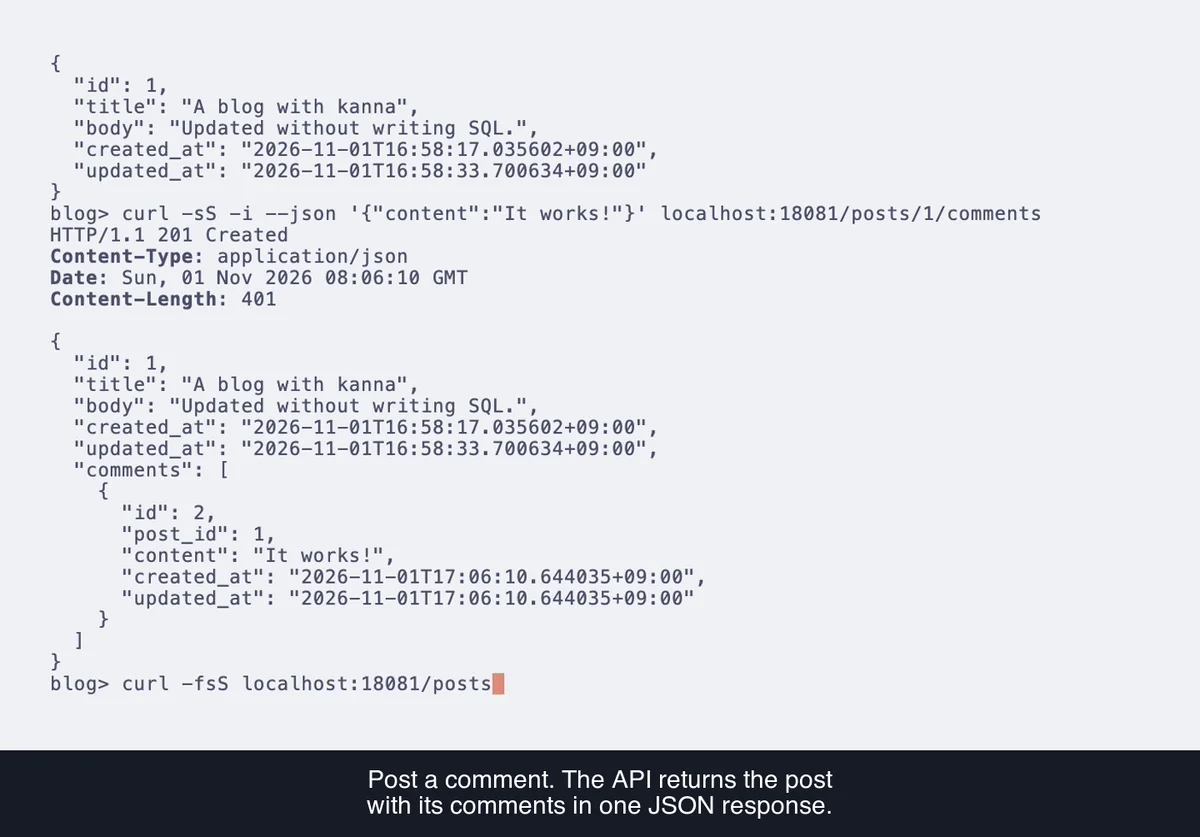
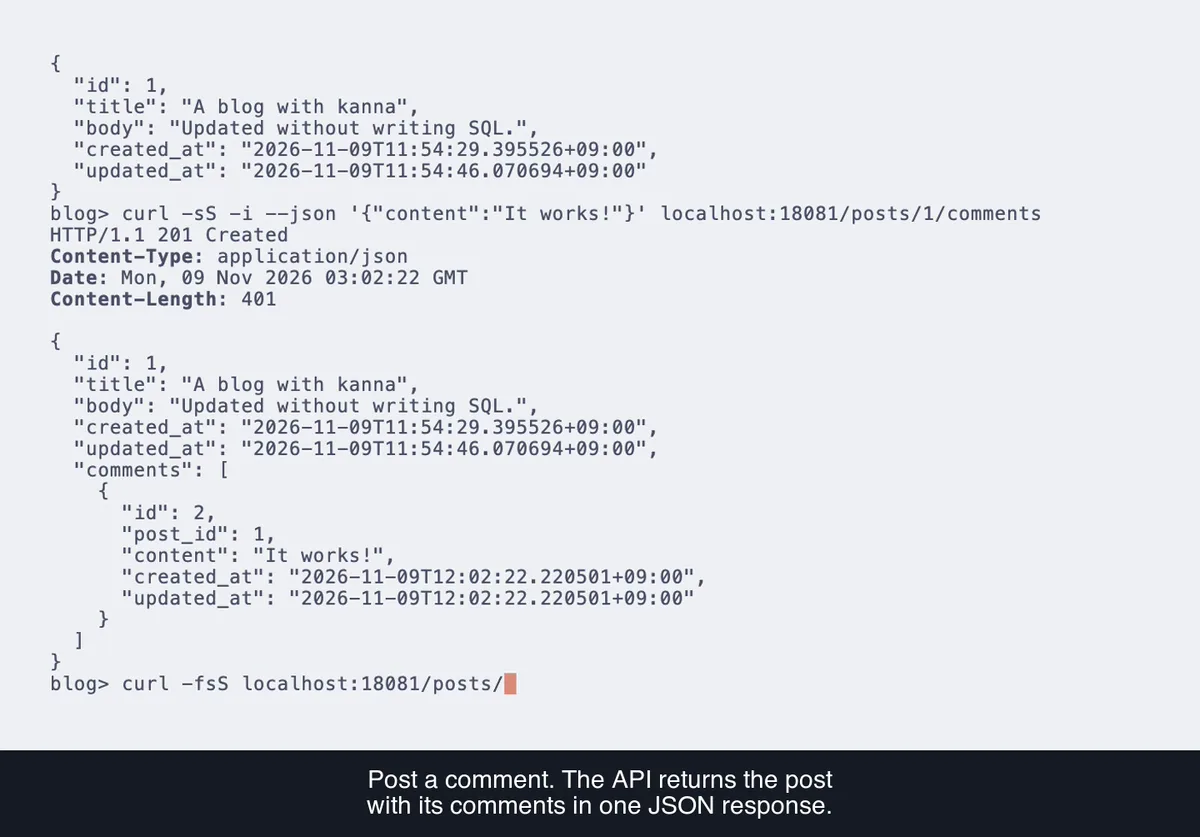
docs(site): show the blog demo recorded again, with kanna-validator

diff --git a/ja/index.html b/ja/index.html
@@ -50,14 +50,14 @@
         <div class="demo-copy">
           <h2 id="demo-title">Go で15分、<br>ブログ API を作る。</h2>
           <p>モデルと interface から始めて、記事の CRUD、コメント、バリデーション、DB を使ったテストまで。</p>
-          <p class="demo-meta">orm・validate・mapper・di・fixture を使う、14分48秒の録画デモです。DB は PostgreSQL。orm は MySQL にも対応しています。</p>
+          <p class="demo-meta">orm・validator・mapper・di・fixture を使う、14分30秒の録画デモです。DB は PostgreSQL。orm は MySQL にも対応しています。</p>
           <a class="demo-link" href="https://github.com/go-kanna/showcase/blob/main/tutorial/README.ja.md">チュートリアルで試す</a>
         </div>
         <figure class="demo-preview">
-          <a class="demo-watch" href="https://www.youtube.com/watch?v=4YJi8_5i9cY" data-video="4YJi8_5i9cY" aria-label="日本語字幕付きのブログ API デモを再生、14分48秒">
+          <a class="demo-watch" href="https://www.youtube.com/watch?v=Q45tS3t3qAg" data-video="Q45tS3t3qAg" aria-label="日本語字幕付きのブログ API デモを再生、14分30秒">
             <img src="../assets/demo/blog-ja.webp" width="1200" height="837" alt="動作中のブログ API が HTTP 201 と、記事にコメントを含めた JSON を返している画面。">
             <span class="demo-play" aria-hidden="true"><svg viewBox="0 0 24 24"><path d="M8 5v14l11-7z" fill="currentColor"/></svg></span>
-            <span class="demo-duration" aria-hidden="true">14:48</span>
+            <span class="demo-duration" aria-hidden="true">14:30</span>
           </a>
           <figcaption>日本語字幕付きのデモを見る。</figcaption>
         </figure>

diff --git a/index.html b/index.html
@@ -50,14 +50,14 @@
         <div class="demo-copy">
           <h2 id="demo-title">Build a blog API in Go in 15 minutes.</h2>
           <p>Start with models and interfaces. Build post CRUD, add comments, validate requests, and test against a real database.</p>
-          <p class="demo-meta">A 14:48 recorded walkthrough with orm, validate, mapper, di, and fixture. Uses PostgreSQL; orm also supports MySQL.</p>
+          <p class="demo-meta">A 14:30 recorded walkthrough with orm, validator, mapper, di, and fixture. Uses PostgreSQL; orm also supports MySQL.</p>
           <a class="demo-link" href="https://github.com/go-kanna/showcase/blob/main/tutorial/README.md">Follow the tutorial</a>
         </div>
         <figure class="demo-preview">
-          <a class="demo-watch" href="https://www.youtube.com/watch?v=bMl3X8DPx-0" data-video="bMl3X8DPx-0" aria-label="Watch the blog API demo in English, 14 minutes 48 seconds">
+          <a class="demo-watch" href="https://www.youtube.com/watch?v=SaFJoy-q_lg" data-video="SaFJoy-q_lg" aria-label="Watch the blog API demo in English, 14 minutes 30 seconds">
             <img src="assets/demo/blog-en.webp" width="1200" height="837" alt="The running blog API returns HTTP 201 with a post and its nested comments.">
             <span class="demo-play" aria-hidden="true"><svg viewBox="0 0 24 24"><path d="M8 5v14l11-7z" fill="currentColor"/></svg></span>
-            <span class="demo-duration" aria-hidden="true">14:48</span>
+            <span class="demo-duration" aria-hidden="true">14:30</span>
           </a>
           <figcaption>Watch the demo with English captions.</figcaption>
         </figure>
